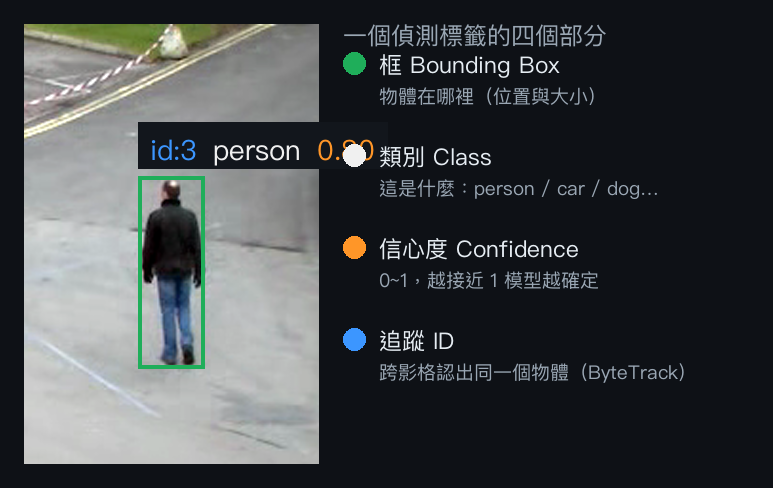
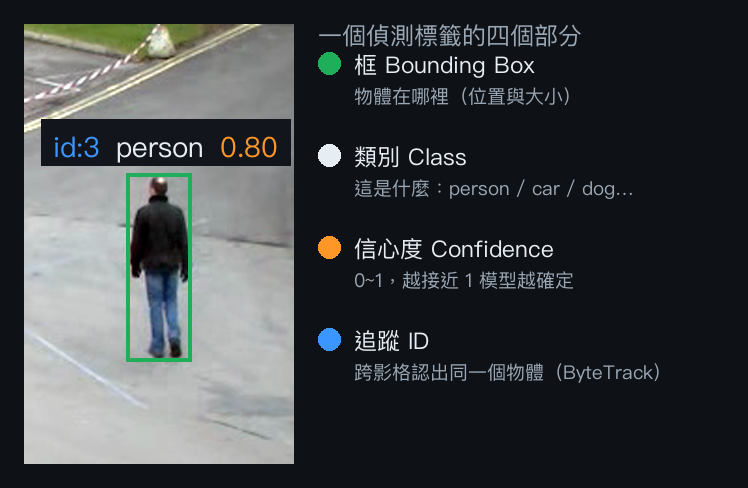
fix(course): 依回饋補圖示 — 修解剖圖溢出 + 人vs電腦/標註/偵測運作/應用實拍
- label_anatomy 修正 chip 溢出被圖例遮住
- 新增 human_vs_computer(像素數字)、annotation(框vs遮罩)、detect_run(grid/IoU/NMS)
- 科普頁應用場景帶實拍圖(交通/生活)；理論頁偵測運作與標註配圖
- illustrations.py 一鍵生成全部教學圖

diff --git a/docs/01-intro.html b/docs/01-intro.html
@@ -32,6 +32,10 @@
   它只看到數字。所以「認出物體」本質上是：<b>從數字裡找出有意義的模式</b>。</p>
 
   <h2>人看圖 vs 電腦看圖</h2>
+  <figure>
+    <img src="media/human_vs_computer.png" alt="人看整張圖 vs 電腦看像素 RGB 數字">
+    <figcaption>對人，這是「一個人走在路上」；對電腦，只是一格格的 RGB 數字——AI 的工作就是從這些數字學出意義</figcaption>
+  </figure>
   <div class="grid g2">
     <div class="card"><h3>人</h3><p>一眼就知道「街上有幾個人、一台公車」，靠的是一輩子累積的經驗。</p></div>
     <div class="card"><h3>電腦</h3><p>要先用大量「已標好答案」的影像訓練，學會把像素模式對應到類別與位置。</p></div>
@@ -41,9 +45,9 @@
   <h2>物件偵測能做什麼</h2>
   <p>把「有什麼、在哪裡、有幾個」自動算出來，就能撐起很多應用：</p>
   <div class="grid g3">
-    <div class="card"><h3>製造</h3><p>產線計數、缺件偵測、料件分類、人員安全區監控。</p></div>
-    <div class="card"><h3>交通</h3><p>車流統計、車種辨識、違規偵測、行人安全。</p></div>
-    <div class="card"><h3>生活/零售</h3><p>來客計數、排隊偵測、居家有人/車/寵物的通知。</p></div>
+    <div class="card"><img src="media/app_traffic.jpg" alt="交通場景偵測"><h3>交通</h3><p>車流統計、車種辨識、違規偵測、行人安全。</p></div>
+    <div class="card"><img src="media/app_life.jpg" alt="人流場景偵測"><h3>生活 / 零售</h3><p>來客計數、排隊偵測、居家有人/車/寵物的通知。</p></div>
+    <div class="card"><h3>製造</h3><p>產線計數、缺件偵測、料件分類、安全區監控。<br><span class="mut small">金屬零件實例見<a href="05-handson.html">第 5 章 · 工業級</a></span></p></div>
   </div>
 
   <h2>為什麼是 YOLO</h2>

diff --git a/docs/02-theory.html b/docs/02-theory.html
@@ -50,6 +50,10 @@
   </figure>
 
   <h2>偵測怎麼運作（直覺版）</h2>
+  <figure>
+    <img src="media/detect_run.png" alt="掃格子 Grid / IoU 重疊度 / NMS 去重">
+    <figcaption>掃格子找物體 → 用 IoU 衡量框的重疊 → 用 NMS 把同一物體的重複框只留一個</figcaption>
+  </figure>
   <div class="grid g2">
     <div class="card"><h3>掃格子 Grid</h3><p>把圖切成網格，讓每個格子負責「猜這附近有沒有物體、是什麼、框多大」。YOLO 一次過就全部算完。</p></div>
     <div class="card"><h3>信心門檻 Confidence</h3><p>每個預測都有 0~1 的信心度；低於門檻（如 0.35）就丟掉，避免一堆雜訊框。</p></div>
@@ -64,6 +68,10 @@
     <div class="card"><h3>偵測 → 方框 (bbox)</h3><p>框住每個物體並標類別。快、便宜，最常用。</p></div>
     <div class="card"><h3>分割 → 多邊形/遮罩 (polygon/mask)</h3><p>沿著物體輪廓描點。較費工，但拿到像素級邊緣。</p></div>
   </div>
+  <figure>
+    <img src="media/annotation.png" alt="標註：方框 bbox vs 多邊形/遮罩">
+    <figcaption>同一個人：偵測標「方框」（左），分割標「多邊形/遮罩」描出輪廓（右）</figcaption>
+  </figure>
   <p>常用工具：<b>Roboflow</b>（雲端、最快，資料不敏感首選）、<b>CVAT</b>（可自架，資料敏感用）、<b>Label Studio</b>。
   標註品質直接決定模型好壞——「垃圾進、垃圾出」。第 5 章會實際標一批並訓練。</p>
   <div class="note">小樣本技巧：先用真實產品圖去背，貼到真實背景上合成大量變化（Copy-Paste 合成），能在沒幾張真圖時就把模型撐起來。</div>

diff --git a/docs/assets/style.css b/docs/assets/style.css
@@ -42,6 +42,7 @@ b,strong{color:var(--txt)}
 .card h3{margin:0 0 6px;color:var(--txt)} .card p{color:var(--mut);margin:6px 0 0;font-size:15px}
 .card.link{transition:border-color .15s} a.card.link:hover{border-color:var(--accent);text-decoration:none}
 .card .num{color:var(--accent);font-weight:800;font-size:14px}
+.card img{width:100%;border-radius:8px;margin-bottom:10px;border:1px solid var(--line);display:block}
 
 figure{margin:22px 0} figure img{width:100%;border-radius:12px;border:1px solid var(--line);display:block}
 figcaption{color:var(--mut);font-size:14px;margin-top:8px;text-align:center}

diff --git a/site_assets/illustrations.py b/site_assets/illustrations.py
@@ -1,0 +1,182 @@
+"""Generate all teaching illustration images for the course site.
+
+Outputs to docs/media/:
+  label_anatomy.png      (fixed: chip clamped inside the image panel)
+  human_vs_computer.png  (whole image vs pixel grid of numbers)
+  annotation.png         (bbox vs polygon/mask)
+  detect_run.png         (grid / IoU / NMS, 3 panels)
+  app_traffic.png, app_life.png  (annotated application stills)
+"""
+from __future__ import annotations
+
+import urllib.request
+from pathlib import Path
+
+import cv2
+import numpy as np
+from PIL import Image, ImageDraw, ImageFont
+from ultralytics import YOLO
+
+def F(px): return ImageFont.truetype("/System/Library/Fonts/PingFang.ttc", px)
+
+OUT = Path("docs/media"); OUT.mkdir(parents=True, exist_ok=True)
+TMP = Path("site_assets/_tmp"); TMP.mkdir(parents=True, exist_ok=True)
+BG = (14, 17, 22); MUT = (154, 167, 180); WHT = (230, 237, 243); GREEN = (31, 174, 90)
+ORANGE = (255, 150, 40); BLUE = (60, 150, 255)
+
+sample = str(TMP / "sample.jpg")
+if not Path(sample).exists():
+    urllib.request.urlretrieve("https://ultralytics.com/images/bus.jpg", sample)
+cap = cv2.VideoCapture("site_assets/raw/pedestrians.avi"); cap.set(1, 70); _, PED = cap.read(); cap.release()
+det = YOLO("yolo11n.pt"); seg = YOLO("yolo11n-seg.pt")
+
+
+def cv2pil(im): return Image.fromarray(cv2.cvtColor(im, cv2.COLOR_BGR2RGB))
+
+
+def person_crop(frame, pad_top=80, pad=55):
+    r = det.predict(frame, classes=[0], conf=0.4, verbose=False)[0]
+    b = sorted(r.boxes, key=lambda x: float(x.conf), reverse=True)[0]
+    x1, y1, x2, y2 = (int(v) for v in b.xyxy[0]); H, W = frame.shape[:2]
+    cx1, cy1 = max(0, x1 - pad), max(0, y1 - pad_top)
+    cx2, cy2 = min(W, x2 + pad), min(H, y2 + pad)
+    return frame[cy1:cy2, cx1:cx2], (x1 - cx1, y1 - cy1, x2 - cx1, y2 - cy1)
+
+
+# ---------- 1. label anatomy (chip clamped) ----------
+def anatomy():
+    crop, (bx1, by1, bx2, by2) = person_crop(PED)
+    S = 440 / crop.shape[0]
+    crop = cv2.resize(crop, (int(crop.shape[1] * S), 440), interpolation=cv2.INTER_CUBIC)
+    bx1, by1, bx2, by2 = bx1 * S, by1 * S, bx2 * S, by2 * S
+    left = cv2pil(crop); lw, lh = left.size
+    LEGW = 430; PAD = 24
+    canvas = Image.new("RGB", (lw + LEGW + PAD * 2, lh + PAD * 2), BG); d = ImageDraw.Draw(canvas)
+    canvas.paste(left, (PAD, PAD)); ox = oy = PAD
+    d.rectangle([ox + bx1, oy + by1, ox + bx2, oy + by2], outline=GREEN, width=4)
+    parts = [("id:3", BLUE), ("person", WHT), ("0.80", ORANGE)]
+    fch = F(28); pad = 12; gap = 16
+    ws = [d.textbbox((0, 0), t, font=fch)[2] for t, _ in parts]
+    chw = sum(ws) + gap * 2 + pad * 2; chh = 46
+    chx = ox + bx1
+    chx = min(chx, ox + lw - chw - 4); chx = max(ox + 2, chx)   # clamp inside image
+    chy = oy + max(2, by1 - chh - 8)
+    d.rectangle([chx, chy, chx + chw, chy + chh], fill=(18, 22, 28))
+    cur = chx + pad
+    for (t, col), w in zip(parts, ws):
+        d.text((cur, chy + 8), t, font=fch, fill=col); cur += w + gap
+    lx = lw + PAD * 2; ly = PAD + 24
+    d.text((lx, PAD - 6), "一個偵測標籤的四個部分", font=F(24), fill=MUT)
+    rows = [(GREEN, "框 Bounding Box", "物體在哪裡（位置與大小）"),
+            (WHT, "類別 Class", "這是什麼：person / car / dog…"),
+            (ORANGE, "信心度 Confidence", "0~1，越接近 1 模型越確定"),
+            (BLUE, "追蹤 ID", "跨影格認出同一個物體（ByteTrack）")]
+    for col, term, desc in rows:
+        d.ellipse([lx, ly + 4, lx + 22, ly + 26], fill=col)
+        d.text((lx + 36, ly), term, font=F(23), fill=WHT)
+        d.text((lx + 36, ly + 34), desc, font=F(19), fill=MUT); ly += 92
+    canvas.save(OUT / "label_anatomy.png"); print("anatomy", canvas.size)
+
+
+# ---------- 2. human vs computer (pixel grid) ----------
+def human_vs_computer():
+    crop, (bx1, by1, bx2, by2) = person_crop(PED, pad_top=10, pad=10)
+    Lh = 380; S = Lh / crop.shape[0]
+    leftim = cv2.resize(crop, (int(crop.shape[1] * S), Lh))
+    # small pixel block from torso
+    py, px = (by1 + by2) // 2, (bx1 + bx2) // 2
+    N = 8; block = crop[py:py + N, px:px + N].copy()
+    if block.shape[0] < N or block.shape[1] < N:
+        block = crop[:N, :N].copy()
+    cell = 60; gw = N * cell
+    grid = Image.new("RGB", (gw, gw), BG); dg = ImageDraw.Draw(grid)
+    fpx = F(13)
+    for yy in range(N):
+        for xx in range(N):
+            b, g, r = block[yy, xx]
+            dg.rectangle([xx * cell, yy * cell, (xx + 1) * cell, (yy + 1) * cell], fill=(int(r), int(g), int(b)), outline=(40, 46, 54))
+            lum = 0.299 * r + 0.587 * g + 0.114 * b
+            tc = (20, 20, 20) if lum > 130 else (235, 235, 235)
+            dg.text((xx * cell + 4, yy * cell + 8), f"{int(r)}\n{int(g)}\n{int(b)}", font=fpx, fill=tc)
+    HEAD = 50; GAP = 16
+    left = cv2pil(leftim); lw, lh = left.size
+    W = lw + GAP + gw + 48; H = max(lh, gw) + HEAD + 48
+    canvas = Image.new("RGB", (W, H), BG); d = ImageDraw.Draw(canvas)
+    d.text((24, 16), "人看：整張圖", font=F(22), fill=GREEN)
+    d.text((24 + lw + GAP, 16), "電腦看：每個像素就是 RGB 數字", font=F(22), fill=ORANGE)
+    canvas.paste(left, (24, HEAD)); canvas.paste(grid, (24 + lw + GAP, HEAD))
+    canvas.save(OUT / "human_vs_computer.png"); print("human_vs_computer", canvas.size)
+
+
+# ---------- 3. annotation: bbox vs polygon ----------
+def annotation():
+    crop, (bx1, by1, bx2, by2) = person_crop(PED, pad_top=20, pad=25)
+    S = 420 / crop.shape[0]
+    crop = cv2.resize(crop, (int(crop.shape[1] * S), 420))
+    a = crop.copy(); cv2.rectangle(a, (int(bx1 * S), int(by1 * S)), (int(bx2 * S), int(by2 * S)), (90, 174, 31), 3)
+    # polygon from seg
+    rs = seg.predict(crop, classes=[0], conf=0.35, verbose=False)[0]
+    bpoly = crop.copy()
+    if rs.masks is not None and len(rs.masks.xy):
+        poly = max(rs.masks.xy, key=lambda p: len(p)).astype(np.int32)
+        cv2.polylines(bpoly, [poly], True, (255, 150, 60), 2)
+        overlay = bpoly.copy(); cv2.fillPoly(overlay, [poly], (255, 150, 60)); bpoly = cv2.addWeighted(overlay, 0.25, bpoly, 0.75, 0)
+    HEAD = 50; GAP = 12; W = crop.shape[1]; H = crop.shape[0]
+    canvas = Image.new("RGB", (W * 2 + GAP + 48, H + HEAD + 48), BG); d = ImageDraw.Draw(canvas)
+    d.text((24, 16), "方框 bbox：框住物體", font=F(22), fill=GREEN)
+    d.text((24 + W + GAP, 16), "多邊形／遮罩：描出輪廓", font=F(22), fill=BLUE)
+    canvas.paste(cv2pil(a), (24, HEAD)); canvas.paste(cv2pil(bpoly), (24 + W + GAP, HEAD))
+    d.text((24, HEAD + H + 10), "偵測用方框，快又便宜；分割用多邊形/遮罩，得到像素級邊緣。", font=F(18), fill=MUT)
+    canvas.save(OUT / "annotation.png"); print("annotation", canvas.size)
+
+
+# ---------- 4. detect_run: grid / IoU / NMS ----------
+def detect_run():
+    base, (bx1, by1, bx2, by2) = person_crop(PED, pad_top=30, pad=30)
+    S = 300 / base.shape[0]; base = cv2.resize(base, (int(base.shape[1] * S), 300))
+    bx1, by1, bx2, by2 = [int(v * S) for v in (bx1, by1, bx2, by2)]
+    Hh, Ww = base.shape[:2]
+    # grid panel
+    g = base.copy()
+    for x in range(0, Ww, Ww // 6): cv2.line(g, (x, 0), (x, Hh), (255, 255, 255), 1)
+    for y in range(0, Hh, Hh // 8): cv2.line(g, (0, y), (Ww, y), (255, 255, 255), 1)
+    # iou panel (synthetic)
+    iou = np.full((Hh, Ww, 3), 22, np.uint8)
+    r1 = (Ww // 6, Hh // 4, Ww // 6 + Ww // 2, Hh // 4 + Hh // 2)
+    r2 = (Ww // 3, Hh // 3, Ww // 3 + Ww // 2, Hh // 3 + Hh // 2)
+    ix1, iy1 = max(r1[0], r2[0]), max(r1[1], r2[1]); ix2, iy2 = min(r1[2], r2[2]), min(r1[3], r2[3])
+    cv2.rectangle(iou, (ix1, iy1), (ix2, iy2), (60, 90, 120), -1)
+    cv2.rectangle(iou, r1[:2], r1[2:], (255, 150, 40), 2); cv2.rectangle(iou, r2[:2], r2[2:], (60, 150, 255), 2)
+    # nms panel: many boxes -> implied one (draw offsets)
+    nms = base.copy()
+    for dx, dy in [(-8, -6), (6, -10), (-4, 8), (10, 4)]:
+        cv2.rectangle(nms, (bx1 + dx, by1 + dy), (bx2 + dx, by2 + dy), (120, 120, 120), 1)
+    cv2.rectangle(nms, (bx1, by1), (bx2, by2), (90, 174, 31), 3)
+    panels = [(g, "掃格子 Grid", "每格猜：附近有沒有物體"),
+              (iou, "IoU 重疊度", "交集 ÷ 聯集"),
+              (nms, "NMS 去重", "多個框 → 留最好的一個")]
+    HEAD = 52; GAP = 12
+    W = Ww * 3 + GAP * 2 + 32; H = Hh + HEAD + 24
+    canvas = Image.new("RGB", (W, H), BG); d = ImageDraw.Draw(canvas)
+    for i, (im, t, sub) in enumerate(panels):
+        x = 16 + i * (Ww + GAP)
+        d.text((x, 12), t, font=F(21), fill=GREEN); d.text((x, 38), sub, font=F(15), fill=MUT)
+        canvas.paste(cv2pil(im), (x, HEAD))
+    canvas.save(OUT / "detect_run.png"); print("detect_run", canvas.size)
+
+
+# ---------- 5. application stills ----------
+def app_still(src_video, out_name, sec_frame=60):
+    cap = cv2.VideoCapture(src_video); cap.set(1, sec_frame); ok, fr = cap.read(); cap.release()
+    if not ok:
+        cap = cv2.VideoCapture(src_video); ok, fr = cap.read(); cap.release()
+    fr = cv2.resize(fr, (640, int(640 * fr.shape[0] / fr.shape[1])))
+    r = det.predict(fr, conf=0.35, verbose=False)[0]
+    cv2.imwrite(str(OUT / out_name), r.plot(), [cv2.IMWRITE_JPEG_QUALITY, 85])
+    print(out_name)
+
+
+anatomy(); human_vs_computer(); annotation(); detect_run()
+app_still("site_assets/raw/street_lagos.webm", "app_traffic.jpg", 90)
+app_still("site_assets/raw/pedestrians.avi", "app_life.jpg", 70)
+print("all illustrations done")